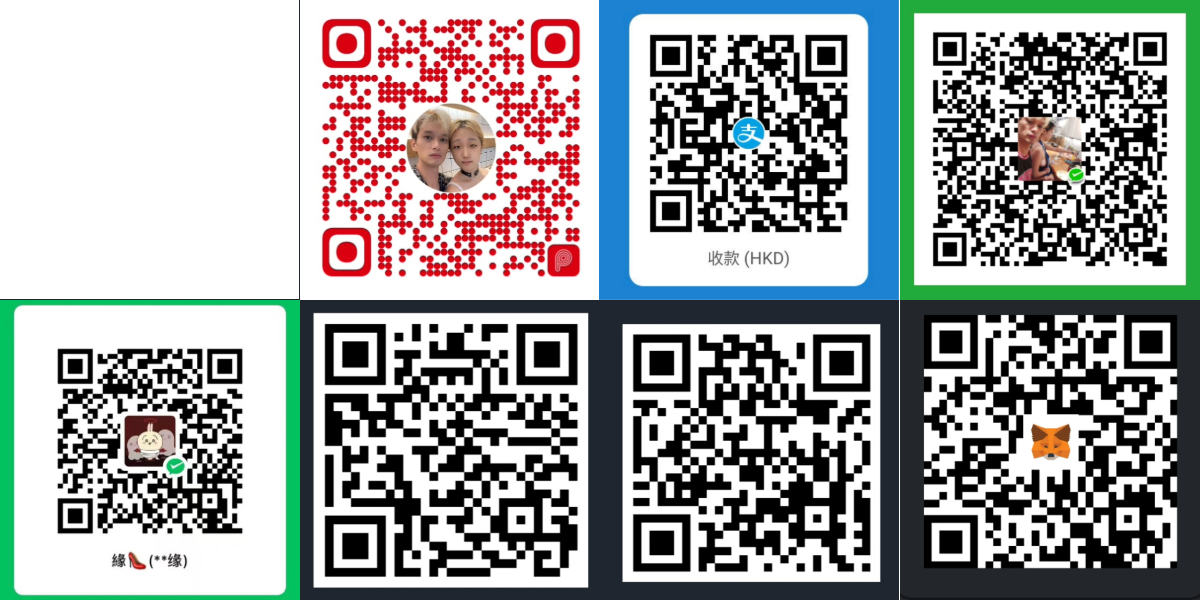
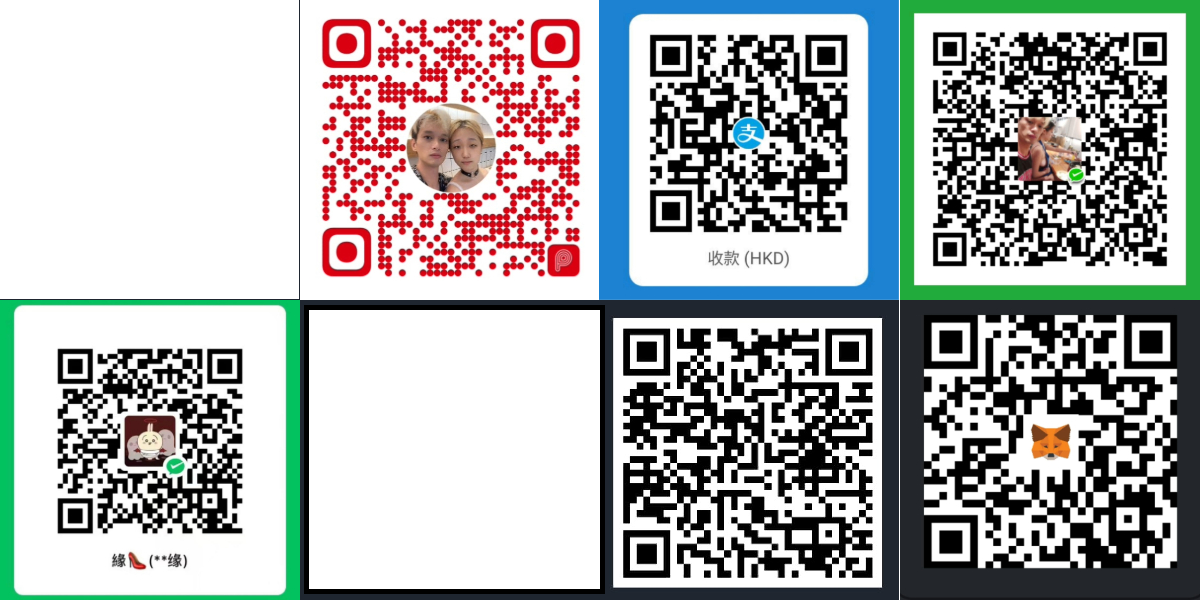
Add files via upload

Changed region(s): [[0.2461, 0.5083, 0.7382, 0.9867]]

diff --git a/PayAki/index.html b/PayAki/index.html
@@ -99,7 +99,7 @@
                 </div>
 
 
-                <!-- USDT -->
+                <!-- 
                 <div class="payment-option">
                     <div class='bgimg payment-icon' style='background-position: -170px -131px;' title="AlipayHK" ></div> 
                     <div class="payment-info">
@@ -107,13 +107,14 @@
                         <p >泰达币（USDT） 0xf6f4b1076d9e514a8890a8968e939dadc0ef19ad</p>
                     </div>
                 </div>
+                USDT -->
         
                 <!-- Bitcoin -->
                 <div class="payment-option">
                     <div class='bgimg payment-icon' style='background-position: -350px -131px;' title="AlipayHK" ></div> 
                     <div class="payment-info">
                         <div class='bgimg info-image' style='background-position: -599px -300px;' title="比特幣(Bitcoin)" ></div> 
-                        <p>比特幣(Bitcoin) 1JhXvngcNyertgi9JvT9DCysAeEXMiia4L</p>
+                        <p>比特幣(Bitcoin) bc1q0wsqpwd964q4esaxs6phcgkanct07vur5v290w</p>
                     </div>
                 </div>
                 
@@ -126,6 +127,8 @@
                     </div>
                 </div>
         
+                
+                <hr style="clear: both;margin-top: 50%;">
                 <a href="https://wa.me/85264071181/?text=莫生我要查詢付款" class="btn"><h2>Contact us</h2></a>
             </div>
 
